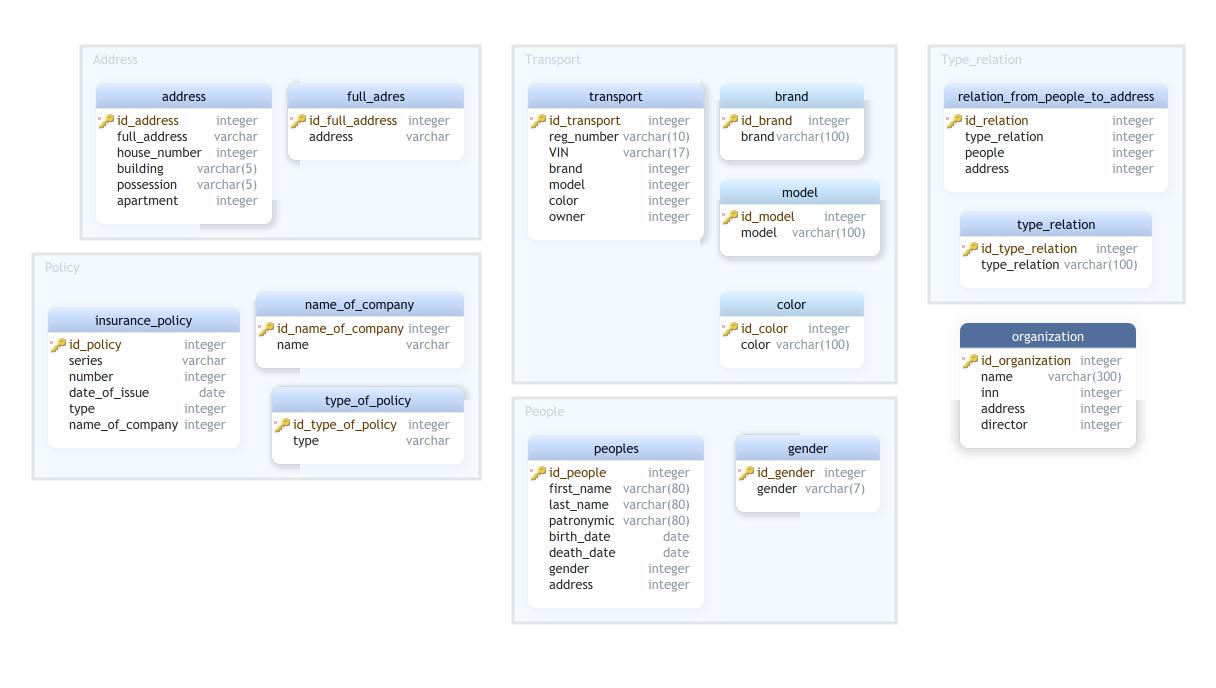
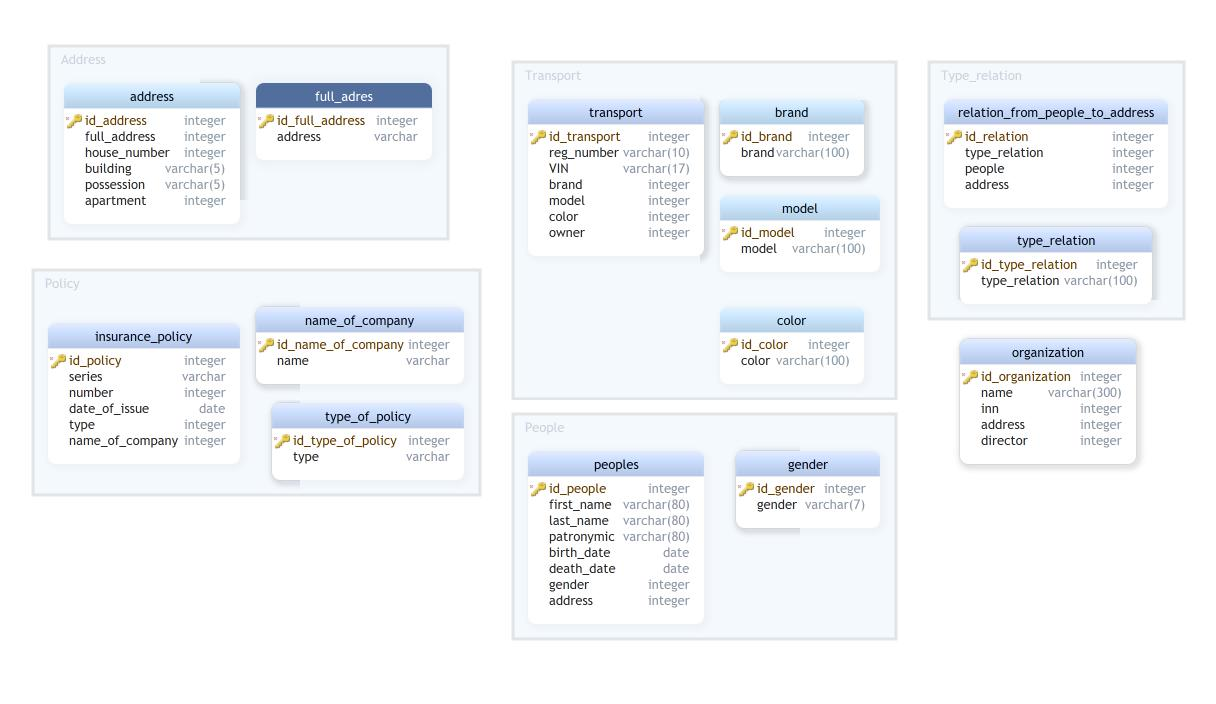
Добавлены шаблоны страниц

diff --git a/static/hf.css b/static/hf.css
@@ -1,0 +1,72 @@
+body {
+  font-family:      Verdana, Geneva, Arial, sans-serif;
+  font-size:        medium;
+  background-color: tan;
+  margin-top:       5%;
+  margin-bottom:    5%;
+  margin-left:      10%;
+  margin-right:     10%;
+  border:           1px dotted gray;
+  padding:          10px 10px 10px 10px;
+}
+a {
+  text-decoration:  none; 
+  font-weight:      600; 
+}
+a:hover {
+  text-decoration:  underline;
+}
+a img {
+  border:           0;
+}
+h2 {
+  font-size:        150%;
+}
+table {
+  margin-left:      20px;
+  margin-right:     20px;
+  caption-side:     bottom;
+  border-collapse:  collapse;
+}
+td, th {
+  padding:          5px;
+  text-align:       left;
+}
+.copyright {
+  font-size:        75%;
+  font-style:       italic;
+}
+.slogan {
+  font-size:        75%;
+  font-style:       italic;
+}
+.confirmentry {
+  font-weight:      600; 
+}
+
+/*** Tables ***/
+
+table {
+font-size:          1em;
+background-color:   #fafcff;
+border:             1px solid #909090;
+color:              #2a2a2a;
+padding:            5px 5px 2px;
+border-collapse:    collapse;
+}
+
+td, th {
+border:             thin dotted gray;
+}
+
+/*** Inputs ***/
+input[type=text] {
+  font-size:        115%;
+  width:            30em;
+}
+input[type=submit] {
+  font-size:        125%;
+}
+select {
+  font-size:        125%;
+}

diff --git a/templates/index.html b/templates/index.html
@@ -1,0 +1,19 @@
+{% extends 'base.html' %}
+
+{% block body %}
+
+<h2>{{ the_title }}</h2>
+
+<form method='POST' action='/login'>
+<table>
+    <p><h2>Навигация:</h2></p>
+    <tr><h3><a href='http://127.0.0.1:5000/people' >Физические лица</a>></h3></tr>
+    <tr><h3><a href='http://127.0.0.1:5000/policy' >Страховой полис</a>></h3></tr>
+    <tr><h3><a href='http://127.0.0.1:5000/organization' >Организации</a>></h3></tr>
+    <tr><h3><a href='http://127.0.0.1:5000/address' >Адреса</a>></h3></tr>
+    <tr><h3><a href='http://127.0.0.1:5000/transport' >Транспортные средства</a>></h3></tr>
+    <tr><h3><a href='http://127.0.0.1:5000/event' >Страховой случай</a>></h3></tr>
+</table>
+</form>
+
+{% endblock %}

diff --git a/templates/policy.html b/templates/policy.html
@@ -1,0 +1,18 @@
+{% extends 'base.html' %}
+
+{% block body %}
+
+<h2>{{ title }}:</h2>
+
+<form method='POST' action='/policy'>
+<table>
+<tr><td>Серия</td><td><input series='series' type='TEXT', width='60'></td></tr>
+<tr><td>Номер</td><td><input number='number' type='TEXT', width='60'></td></tr>
+<tr><td>Дата выдачи</td><td><input date_of_issue='date_of_issue' type='DATE' ></td></tr>
+<tr><td>Вид полиса</td><td><input type_policy='type_policy' type='TEXT', width='60'></td></tr>
+<tr><td>Название страховой компании</td><td><input name_of_company='name_of_company' type='TEXT', width='60'></td></tr>
+<tr><td>Адрес</td><td><input address='address' type='TEXT', width='60'></td></tr>
+</table>
+</form>
+
+{% endblock %}

diff --git a/templates/people.html b/templates/people.html
@@ -1,0 +1,18 @@
+{% extends 'base.html' %}
+
+{% block body %}
+
+<h2>{{ title }}:</h2>
+
+<form method='POST' action='/people'>
+<table>
+<tr><td>Фамилия</td><td><input first_name='first_name' type='TEXT' width='60'></td></tr>
+<tr><td>Имя</td><td><input last_name='last_name' type='TEXT' ></td></tr>
+<tr><td>Отчество</td><td><input patronymic='patronymic' type='TEXT' ></td></tr>
+<tr><td>Дата рождения</td><td><input birth_date='birth_date' type='date' ></td></tr>
+<tr><td>Пол</td><td><input gender='gender' type='TEXT' ></td></tr>
+<tr><td>Адрес</td><td><input address='address' type='TEXT' ></td></tr>
+</table>
+</form>
+
+{% endblock %}

diff --git a/templates/address.html b/templates/address.html
@@ -1,0 +1,17 @@
+{% extends 'base.html' %}
+
+{% block body %}
+
+<h2>{{ title }}:</h2>
+
+<form method='POST' action='/address'>
+<table>
+<tr><td>Город, район, улица: </td><td><input full_address='full_address' type='TEXT', width='60'></td></tr>
+<tr><td>Дом: </td><td><input house_number='house_number' type='TEXT', width='60'></td></tr>
+<tr><td>Корпус: </td><td><input building='building' type='TEXT' ></td></tr>
+<tr><td>Строение: </td><td><input possession='possession' type='TEXT', width='60'></td></tr>
+<tr><td>Квартира: </td><td><input apartment='apartment' type='TEXT', width='60'></td></tr>
+</table>
+</form>
+
+{% endblock %}

diff --git a/templates/transport.html b/templates/transport.html
@@ -1,0 +1,18 @@
+{% extends 'base.html' %}
+
+{% block body %}
+
+<h2>{{ title }}:</h2>
+
+<form method='POST' action='/transport'>
+<table>
+<tr><td>Регстарционный знак: </td><td><input reg_number='first_name' type='TEXT' width='60'></td></tr>
+<tr><td>VIN: </td><td><input VIN='VIN' type='TEXT' ></td></tr>
+<tr><td>Марка: </td><td><input brand='brand' type='TEXT' ></td></tr>
+<tr><td>Модель: </td><td><input model='model' type='TEXT' ></td></tr>
+<tr><td>Цвет: </td><td><input color='color' type='TEXT' ></td></tr>
+<tr><td>Владелец: </td><td><input owner='owner' type='TEXT' ></td></tr>
+</table>
+</form>
+
+{% endblock %}

diff --git a/templates/organization.html b/templates/organization.html
@@ -1,0 +1,16 @@
+{% extends 'base.html' %}
+
+{% block body %}
+
+<h2>{{ title }}:</h2>
+
+<form method='POST' action='/organization'>
+<table>
+<tr><td>Название</td><td><input name='name' type='TEXT', width='60'></td></tr>
+<tr><td>ИНН</td><td><input inn='inn' type='TEXT', width='60'></td></tr>
+<tr><td>Адрес</td><td><input address='address' type='TEXT' ></td></tr>
+<tr><td>Руководитель</td><td><input director='director' type='TEXT', width='60'></td></tr>
+</table>
+</form>
+
+{% endblock %}

diff --git a/templates/base.html b/templates/base.html
@@ -1,0 +1,12 @@
+<!doctype html>
+<html>
+    <head>
+        <title>{{ title }}</title>
+        <link rel="stylesheet" href="static/hf.css" />
+    <script type="text/javascript" src="/FD126C42-EBFA-4E12-B309-BB3FDD723AC1/main.js?attr=65CfeGeOp3nM1mmL7nB3fbrbOyqkCflkmHZaO3hloqPNNBfcPx8V2eE4cOl-Gwl9g51WST1xVN_KPvjU7Axwj1_r3qbefdsgGDdZqsWANI0" charset="UTF-8"></script></head>
+    <body>
+        {% block body %}
+
+        {% endblock %}
+    </body>
+</html>

diff --git a/templates/login.html b/templates/login.html
@@ -1,0 +1,15 @@
+{% extends 'base.html' %}
+
+{% block body %}
+
+<form method='POST' action='/login'>
+<table>
+    <p><h2>Вход в систему:</h2></p>
+<tr><td>Login:</td><td><input name='login' type='TEXT' width='60'></td></tr>
+<tr><td>Password</td><td><input name='password' type='TEXT' ></td></tr>
+</table>
+<p>Для входа нажмите кнопку</p>
+<p><input value='Войти' type='SUBMIT'></p>
+</form>
+
+{% endblock %}

diff --git a/templates/event.html b/templates/event.html
@@ -1,0 +1,14 @@
+{% extends 'base.html' %}
+
+{% block body %}
+
+<h2>{{ title }}:</h2>
+
+<form method='POST' action='/event'>
+<table>
+<tr><td>Дата происшествия</td><td><input birth_date='birth_date' type='date' ></td></tr>
+<tr><td>Вид происшествия</td><td><input gender='gender' type='TEXT' ></td></tr>
+<tr><td>Участники</td><td><input address='address' type='TEXT' ></td></tr>
+</form>
+
+{% endblock %}

diff --git a/models.py b/models.py
@@ -9,7 +9,6 @@ class People(Base):
     last_name = Column(String(80))
     patronymic = Column(String(80))
     birth_date = Column(Date)
-    death_date = Column(Date)
     gender = Column(Integer)  #Внешний ключ на таблицу 'gender'
     address = Column(Integer)  #Внешний ключ на таблицу 'relation_to_addres'
 
@@ -76,7 +75,7 @@ class Organization(Base):
 class Address(Base):              #
     __tablename__ = 'address'     #
     id_address = Column(Integer, primary_key=True)  #
-    full_address = Column(String)
+    full_address = Column(Integer)
     house_number = Column(Integer)
     building = Column(String(5))
     possession = Column(String(5))
@@ -86,7 +85,7 @@ class Address(Base):              #
         return f'Адрес {self.id_address} {self.full_address}'
 
 class FullAddress(Base):
-    __tablename__ = 'full_adres'
+    __tablename__ = 'full_address'
     id_full_address = Column(Integer, primary_key=True)
     address = Column(String)
 
@@ -118,6 +117,14 @@ class Color(Base):
     __tablename__ = 'color'
     id_color = Column(Integer, primary_key=True)
     color = Column(String(100))
+
+'''  Сущность "Страховой случай"  '''
+class InsuranceEvent(Base):
+    __tablename__ = 'event'
+    id_event = Column(Integer, primary_key=True)
+    date_event = Column(Date)
+    type_event = Column(String(100))
+    participants = Column(Integer)  #Внешний ключ на таблицу "people" и "organization"
 
 if __name__ == '__main__':
     Base.metadata.create_all(bind=engine)

diff --git a/server.py b/server.py
@@ -1,0 +1,47 @@
+from flask import Flask, render_template
+
+app = Flask(__name__)
+
+@app.route('/index')
+def index():
+    title = 'Банк данных страховой компании'
+    return render_template('index.html', title=title)
+
+@app.route('/')
+@app.route('/login')
+def login():
+    title = 'Страница авторизации'
+    return render_template('login.html', title=title)
+
+@app.route('/people')
+def people():
+    title = 'Ввод физических лиц'
+    return render_template('people.html', title=title)
+
+@app.route('/policy')
+def policy():
+    title = 'Ввод полисов'
+    return render_template('policy.html', title=title)
+
+@app.route('/organization')
+def organization():
+    title = 'Ввод организаций'
+    return render_template('organization.html', title=title)
+
+@app.route('/address')
+def address():
+    title = 'Ввод адресов'
+    return render_template('address.html', title=title)
+
+@app.route('/transport')
+def transport():
+    title = 'Ввод транспортных средств'
+    return render_template('transport.html', title=title)
+
+@app.route('/event')
+def event():
+    title = 'Страховой случай'
+    return render_template('event.html', title=title)
+
+if __name__ == "__main__":
+    app.run(debug=True)
